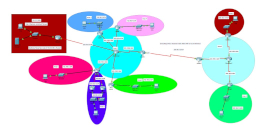
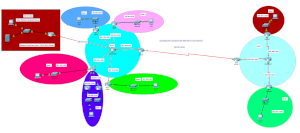
Updated cover page with collage

diff --git a/portfolio.html b/portfolio.html
@@ -33,7 +33,7 @@
                     </p>
                     <div class="portfolio-image-container" id="subnettergui-image-container"></div> <!-- All portfolio images are 587x320, the max resolution they should appear in 1080p fullscreen. -->
                     <p class="clippable">A graphical subnetting calculator and studying tool for IT students who want to learn about subnetting, classful addressing, or IPv6.</p>
-                    <p class="portfolio-link"><a target="_blank" href="https://github.com/rsmaller/subnettergui" class="link">Access SubnetterGui.</a></p>
+                    <a target="_blank" href="https://github.com/rsmaller/subnettergui" class="link clippable"><p class="portfolio-link">Access SubnetterGui.</p></a>
                 </div>
                 <div class="portfolio-unit" id="hashlet">
                     <p class="clippable portfolio-name-header">
@@ -43,7 +43,7 @@
                     </p>
                     <div class="portfolio-image-container" id="hashlet-image-container"></div>
                     <p class="clippable">A CLI script for generating pseudo-hashes or pseudo-checksums for demonstration purposes.</p>
-                    <p class="portfolio-link"><a target="_blank" href="resources/downloadables/hashlet.py" class="link" download>Access Hashlet.</a></p> <!-- Download link attribute cited from www.w3schools.com/howto/howto_html_download_link.asp -->
+                    <a target="_blank" href="resources/downloadables/hashlet.py" class="link clippable" download><p class="portfolio-link">Access Hashlet.</p></a> <!-- Download link attribute cited from www.w3schools.com/howto/howto_html_download_link.asp -->
                 </div>
             </div>
             <div class="vertical-div">
@@ -55,7 +55,7 @@
                     </p>
                     <div class="portfolio-image-container" id="subnetter-image-container"></div>
                     <p class="clippable">A CLI-based subnet calculator written in C.</p>
-                    <p class="portfolio-link"><a target="_blank" href="https://github.com/rsmaller/subnetter" class="link">Access Subnetter.</a></p>
+                    <a target="_blank" href="https://github.com/rsmaller/subnetter" class="link clippable"><p class="portfolio-link">Access Subnetter.</p></a>
                 </div>
                 <div class="portfolio-unit" id="cryptik">
                     <p  class="clippable portfolio-name-header">
@@ -65,7 +65,7 @@
                     </p>
                     <div class="portfolio-image-container" id="cryptik-image-container"></div>
                     <p class="clippable">A CLI script for encoding and decoding Vigen&#232;re-ciphered text with a key.</p>
-                    <p class="portfolio-link"><a target="_blank" href="resources/downloadables/cryptik.py" class="link" download>Access Cryptik.</a></p>
+                    <a target="_blank" href="resources/downloadables/cryptik.py" class="link clippable" download><p class="portfolio-link">Access Cryptik.</p></a>
                 </div>
             </div>
             <div class="vertical-div">
@@ -77,10 +77,10 @@
                     </p>
                     <div class="portfolio-image-container" id="subnetterplusplus-image-container"></div>
                     <p class="clippable">A more robust version of the C CLI-based subnet calculator, re-written in C++.</p>
-                    <p class="portfolio-link"><a target="_blank" href="https://github.com/rsmaller/subnetterplusplus" class="link">Access Subnetter++.</a></p>
+                    <a target="_blank" href="https://github.com/rsmaller/subnetterplusplus" class="link clippable"><p class="portfolio-link">Access Subnetter++.</p></a>
                 </div>
                 <p class="hidden"><a href="#start-content">Skip Navigation and Go Back to Start</a></p>
-                <nav id="navbar">
+                <nav id="navbar"  class="clippable">
                     <a href="index.html" target="_self"><p>Back to Cover Page</p></a>
                     <a href="resume.html" target="_self"><p>Resume</p></a>
                     <a href="mission.html" target="_self"><p>What I Stand For</p></a>

diff --git a/mission.html b/mission.html
@@ -43,7 +43,7 @@
                             out by causing severe damage to IT infrastructure. In short, it is imperative to me that I show I am trustworthy.
                         </p>
                     </div>
-                    <div id="portrait">
+                    <div id="portrait" class="clippable">
                         <iframe class="clippable" width="588" height="331" src="https://www.youtube.com/embed/nu9xL0-F7wA?si=Y7bYw3C0Bvzr9S2O" title="YouTube video player" frameborder="0" allow="accelerometer; autoplay; clipboard-write; encrypted-media; gyroscope; picture-in-picture; web-share" referrerpolicy="strict-origin-when-cross-origin" allowfullscreen></iframe>
                         <p>Bad things happen when ethical guidelines are not followed. In the above video, StackOverflow did unethical things with their users' data.</p>
                     </div>
@@ -117,7 +117,7 @@
                         information on the practice of IT and even more so for system administration.</p>
                 </div>
                 <p class="hidden"><a href="#start-content">Skip Navigation and Go Back to Start</a></p>
-                <nav id="navbar">
+                <nav id="navbar" class="clippable">
                     <a href="index.html" target="_self"><p>Back to Cover Page</p></a>
                     <a href="portfolio.html" target="_self"><p>Portfolio</p></a>
                     <a href="resume.html" target="_self"><p>Resume</p></a>

diff --git a/index.html b/index.html
@@ -79,8 +79,10 @@
                     <div id="collage" class="clippable">
                         <h4>Collage</h4>
                         <img src="resources/images/collage/collage1.jpg" width="600" alt="Screenshot of Graphical Subnetter"> <!-- Unspecified height is intentional; collage will dynamically resize with viewport. -->
-                        <img src="resources/images/collage/collage2.jpg" width="270" alt="One of My Packet Tracer Projects">
+                        <img src="resources/images/collage/collage2.jpg" width="300" alt="One of My Packet Tracer Projects">
                         <img src="resources/images/collage/collage3.jpg" width="300" alt="Python Version Control Script I Used Before Git">
+                        <img src="resources/images/collage/collage4.jpg" width="310" alt="My Current Linux Desktop Configuration">
+                        <img src="resources/images/collage/collage5.jpg" width="290" alt="An Ubuntu Virtual Machine I Customized">
                     </div>
                 </div>
                 <footer>

diff --git a/styles/mission_styles.css b/styles/mission_styles.css
@@ -88,10 +88,18 @@ div div #portrait {
 
 div div div#beliefs { /* Ensure beliefs div displays p elements in block style. */
     display: block;
+    padding-top: 0;
+    padding: 0.2em;
 }
+
+div#beliefs p, div#acm-code p, div#sysadmin-book p, div#ethical-bg p { /* Ensure beliefs div displays p elements in block style. */
+    margin-top: 0.3em;
+}
+
 
 div div div#acm-code, div div div#sysadmin-book { /* Ensure references div always displays p elements in block style. */
     display: block;
+    height: 79%;
 }
 
 /* Navigation Menu */

diff --git a/styles/portfolio_styles.css b/styles/portfolio_styles.css
@@ -45,6 +45,7 @@ div div div {
     width: 31.4vw;
     padding: 0.2em;
     background-color: rgb(212, 229, 255);
+    overflow: hidden;
 }
 
 .portfolio-unit p.portfolio-link, .portfolio-unit p.portfolio-name-header{ /* vertically center links and header text for each portfolio entry */
